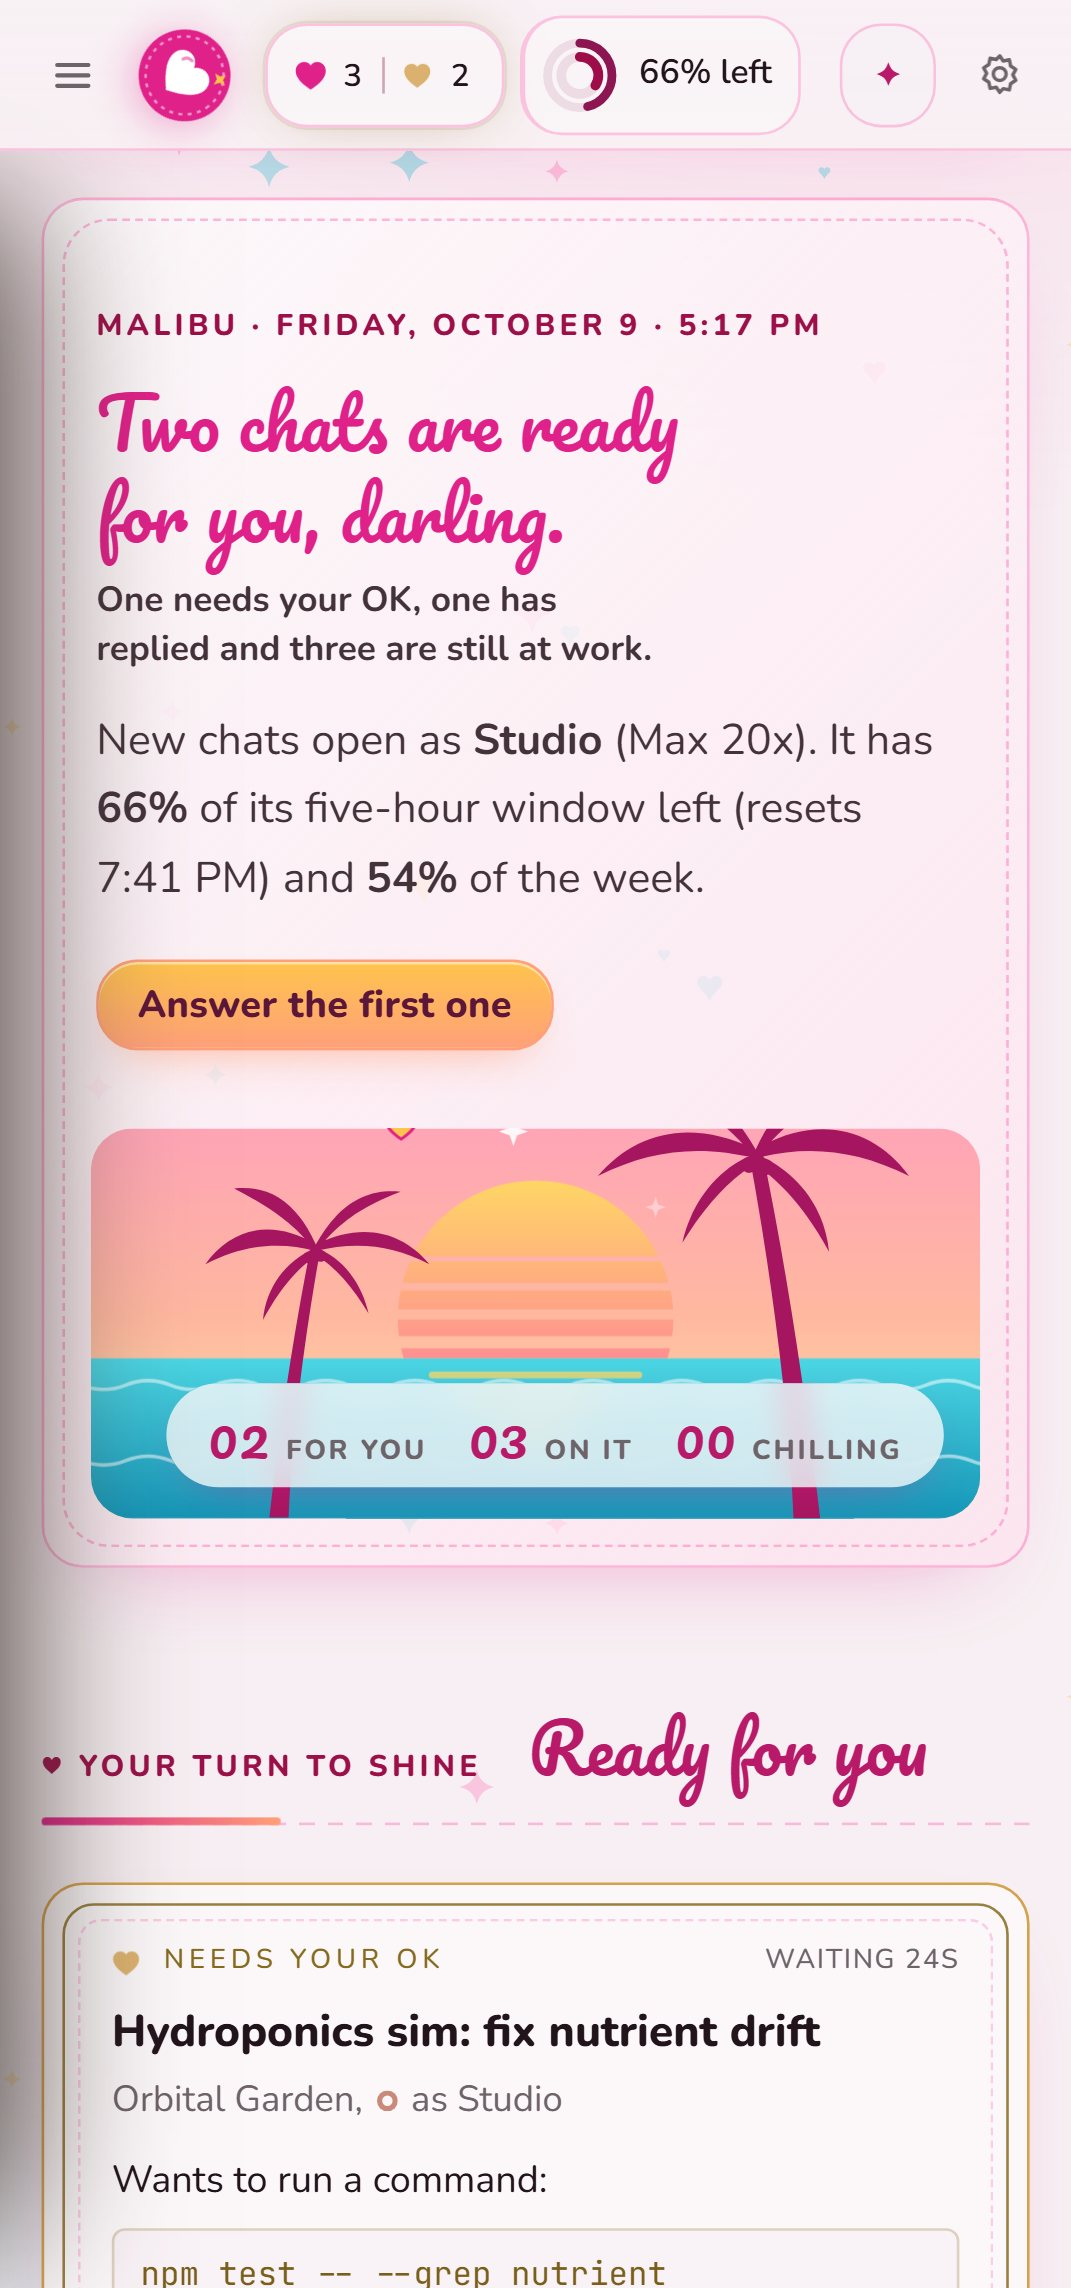
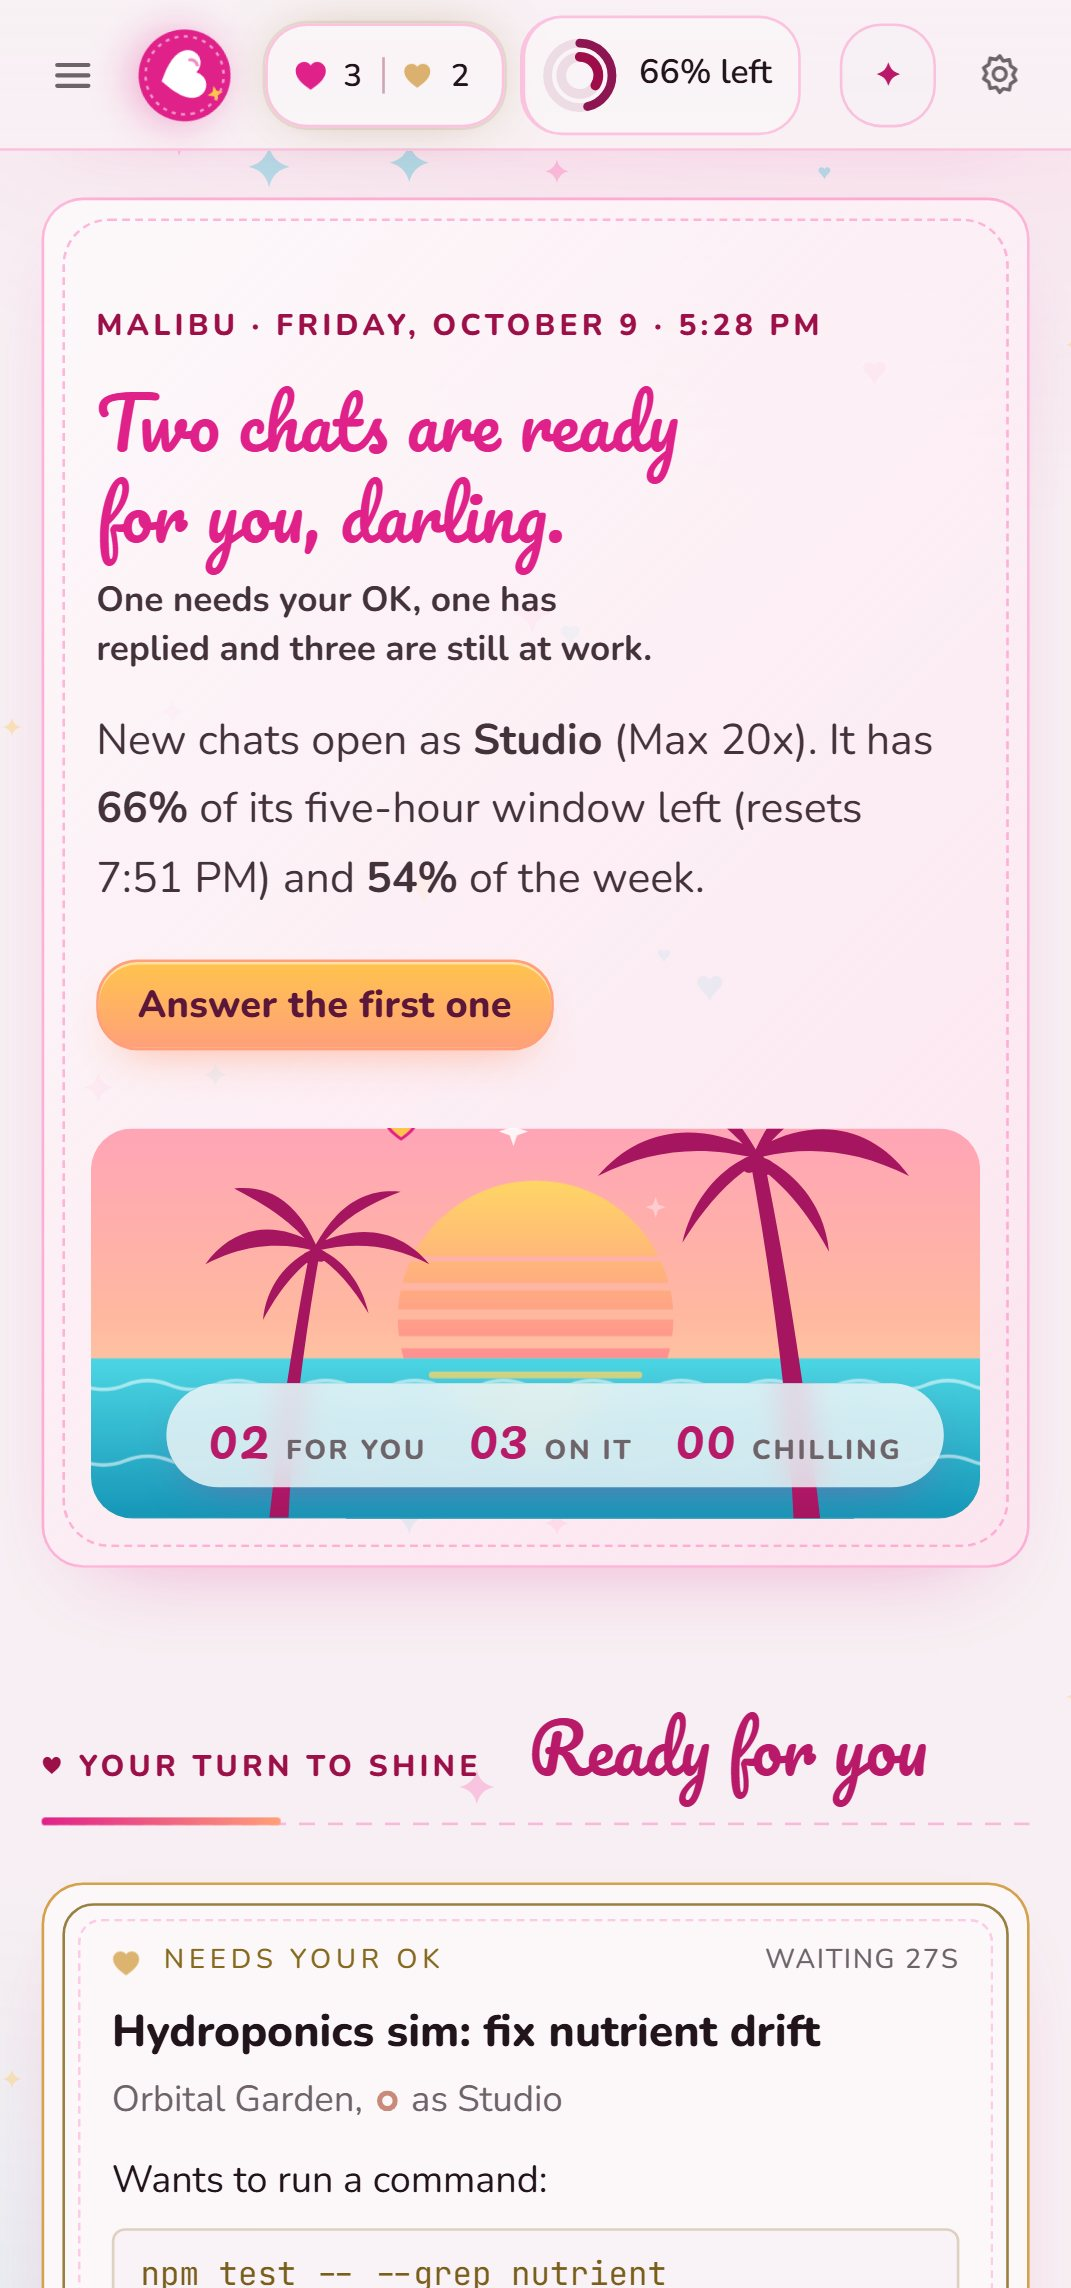
Phones in light mode: no grey band down the left edge
The phone menu and the chat window's list sit just off the left edge
when they're closed, but kept their drop shadow, which spilled onto
the page: invisible in dark mode, a grey band in light mode. They now
cast it only while open, fading in as they slide out. The phone test
checks both panels in light mode; Malibu's phone screenshot is retaken.

Setup's real-data test now waits for the checks to show (they run
real commands after the app's start-up work, about 4 s on a PC with a
large chat history) instead of a fixed 2.5 s.

diff --git a/tests/ui.js b/tests/ui.js
@@ -870,7 +870,12 @@ module.exports = [
     async run(t) {
       const b = await t.open({ width: 412, height: 880, mobile: true });
       t.check('nothing scrolls sideways', await b.eval(`return document.scrollingElement.scrollWidth <= innerWidth + 1`));
+      // Closed, the menu sits just off the left edge; its shadow mustn't spill onto the page (a grey band in light mode).
+      await b.eval(`Look.set({ mode: 'light' }); return 1`); await sleep(300);
+      t.check('the closed menu casts no shadow onto the page', await b.eval(`return getComputedStyle(document.querySelector('.nav')).boxShadow === 'none'`));
+      await b.eval(`Look.reset(); return 1`);
       await b.eval(`document.getElementById('navToggle').click(); return 1`); await sleep(400);
+      t.check('the open menu does', await b.eval(`return getComputedStyle(document.querySelector('.nav')).boxShadow !== 'none'`));
       const n = await b.eval(`const s = getComputedStyle(document.querySelector('.nav')); return { open: document.body.classList.contains('nav-open'), back: getComputedStyle(navBack).display, solid: /gradient/.test(s.backgroundImage) || !/rgba\\(.*, 0(\\.\\d+)?\\)$/.test(s.backgroundColor) }`);
       t.check('the menu opens over a backdrop, on a solid background', n.open && n.back !== 'none' && n.solid, n);
       await t.shot(b, 'phone-nav');
@@ -879,6 +884,7 @@ module.exports = [
       await b.eval(`ChatUI.open({ sessionId: ${JSON.stringify(demo.ID['s-bard'])} }); return 1`); await sleep(2500);
       const c = await b.eval(`return { bar: getComputedStyle(document.querySelector('.bar')).display, top: document.querySelector('.chat').getBoundingClientRect().top, wide: document.scrollingElement.scrollWidth <= innerWidth + 1 }`);
       t.check('a chat uses the whole screen', c.bar === 'none' && c.top < 2 && c.wide, c);
+      t.check('the closed chat list casts no shadow either', await b.eval(`return getComputedStyle(document.getElementById('cRail')).boxShadow === 'none'`));
       await t.shot(b, 'phone-chat');
     },
   },
@@ -888,7 +894,8 @@ module.exports = [
     async run(t) {
       const b = await t.open({ demo: false });
       t.check('the hub loads', await b.eval(`return !!document.querySelector('.nav-i') && !!document.getElementById('page').children.length`));
-      await b.eval(`openSetup(); return 1`); await sleep(2500);
+      // The checks run real commands on this machine, after the app's own start-up work: wait for them, not a set time.
+      await b.eval(`openSetup(); const t0 = Date.now(); while (!document.querySelector('.checks li') && Date.now() - t0 < 20000) await new Promise(r => setTimeout(r, 200)); return Date.now() - t0`);
       const st = await b.eval(`const ids = [...document.querySelectorAll('.setup-toc a')].map(a => a.getAttribute('href')); return { ids, missing: ids.filter(h => !document.querySelector(h)), checks: document.querySelectorAll('.checks li').length, quit: document.querySelector('[data-fix="quit"]')?.className || '' }`);
       t.check('Setup runs its checks', st.checks >= 3, st);
       t.check('Setup quick links all lead somewhere', st.ids.length >= 5 && !st.missing.length, st);

diff --git a/styles.css b/styles.css
@@ -1103,12 +1103,13 @@ dialog.np-dlg{width:min(600px,calc(100vw - 32px));padding:0}
   :root{--nav-w:0px}
   .shell{grid-template-columns:minmax(0,1fr)}
   .navtoggle{display:inline-grid}
-  .nav{position:fixed;top:var(--bar-h);left:0;bottom:0;width:282px;height:auto;z-index:26;transform:translateX(-102%);transition:transform .22s cubic-bezier(.2,.7,.2,1);box-shadow:30px 0 60px -20px rgb(var(--c-000000))}
-  body.nav-open .nav{transform:none}
+  /* the shadow only while it's open: closed, it would spill past the screen's left edge (a grey band in light mode) */
+  .nav{position:fixed;top:var(--bar-h);left:0;bottom:0;width:282px;height:auto;z-index:26;transform:translateX(-102%);transition:transform .22s cubic-bezier(.2,.7,.2,1),box-shadow .22s}
+  body.nav-open .nav{transform:none;box-shadow:30px 0 60px -20px rgb(var(--c-000000))}
   .wordmark small{display:none}
   .chat,.chat.no-ledger{grid-template-columns:minmax(0,1fr)}
-  .chat .rail{position:fixed;top:var(--bar-h);left:0;bottom:0;width:280px;z-index:22;transform:translateX(-102%);transition:transform .22s;box-shadow:30px 0 60px -20px rgb(var(--c-000000))}
-  .chat.show-rail .rail{transform:none}
+  .chat .rail{position:fixed;top:var(--bar-h);left:0;bottom:0;width:280px;z-index:22;transform:translateX(-102%);transition:transform .22s,box-shadow .22s}
+  .chat.show-rail .rail{transform:none;box-shadow:30px 0 60px -20px rgb(var(--c-000000))}
   .c-head .icon.c-backm{display:inline-grid}
   .toc{grid-template-columns:1fr}
   .toc-col + .toc-col{border-left:0;padding-left:0;margin-left:0}
